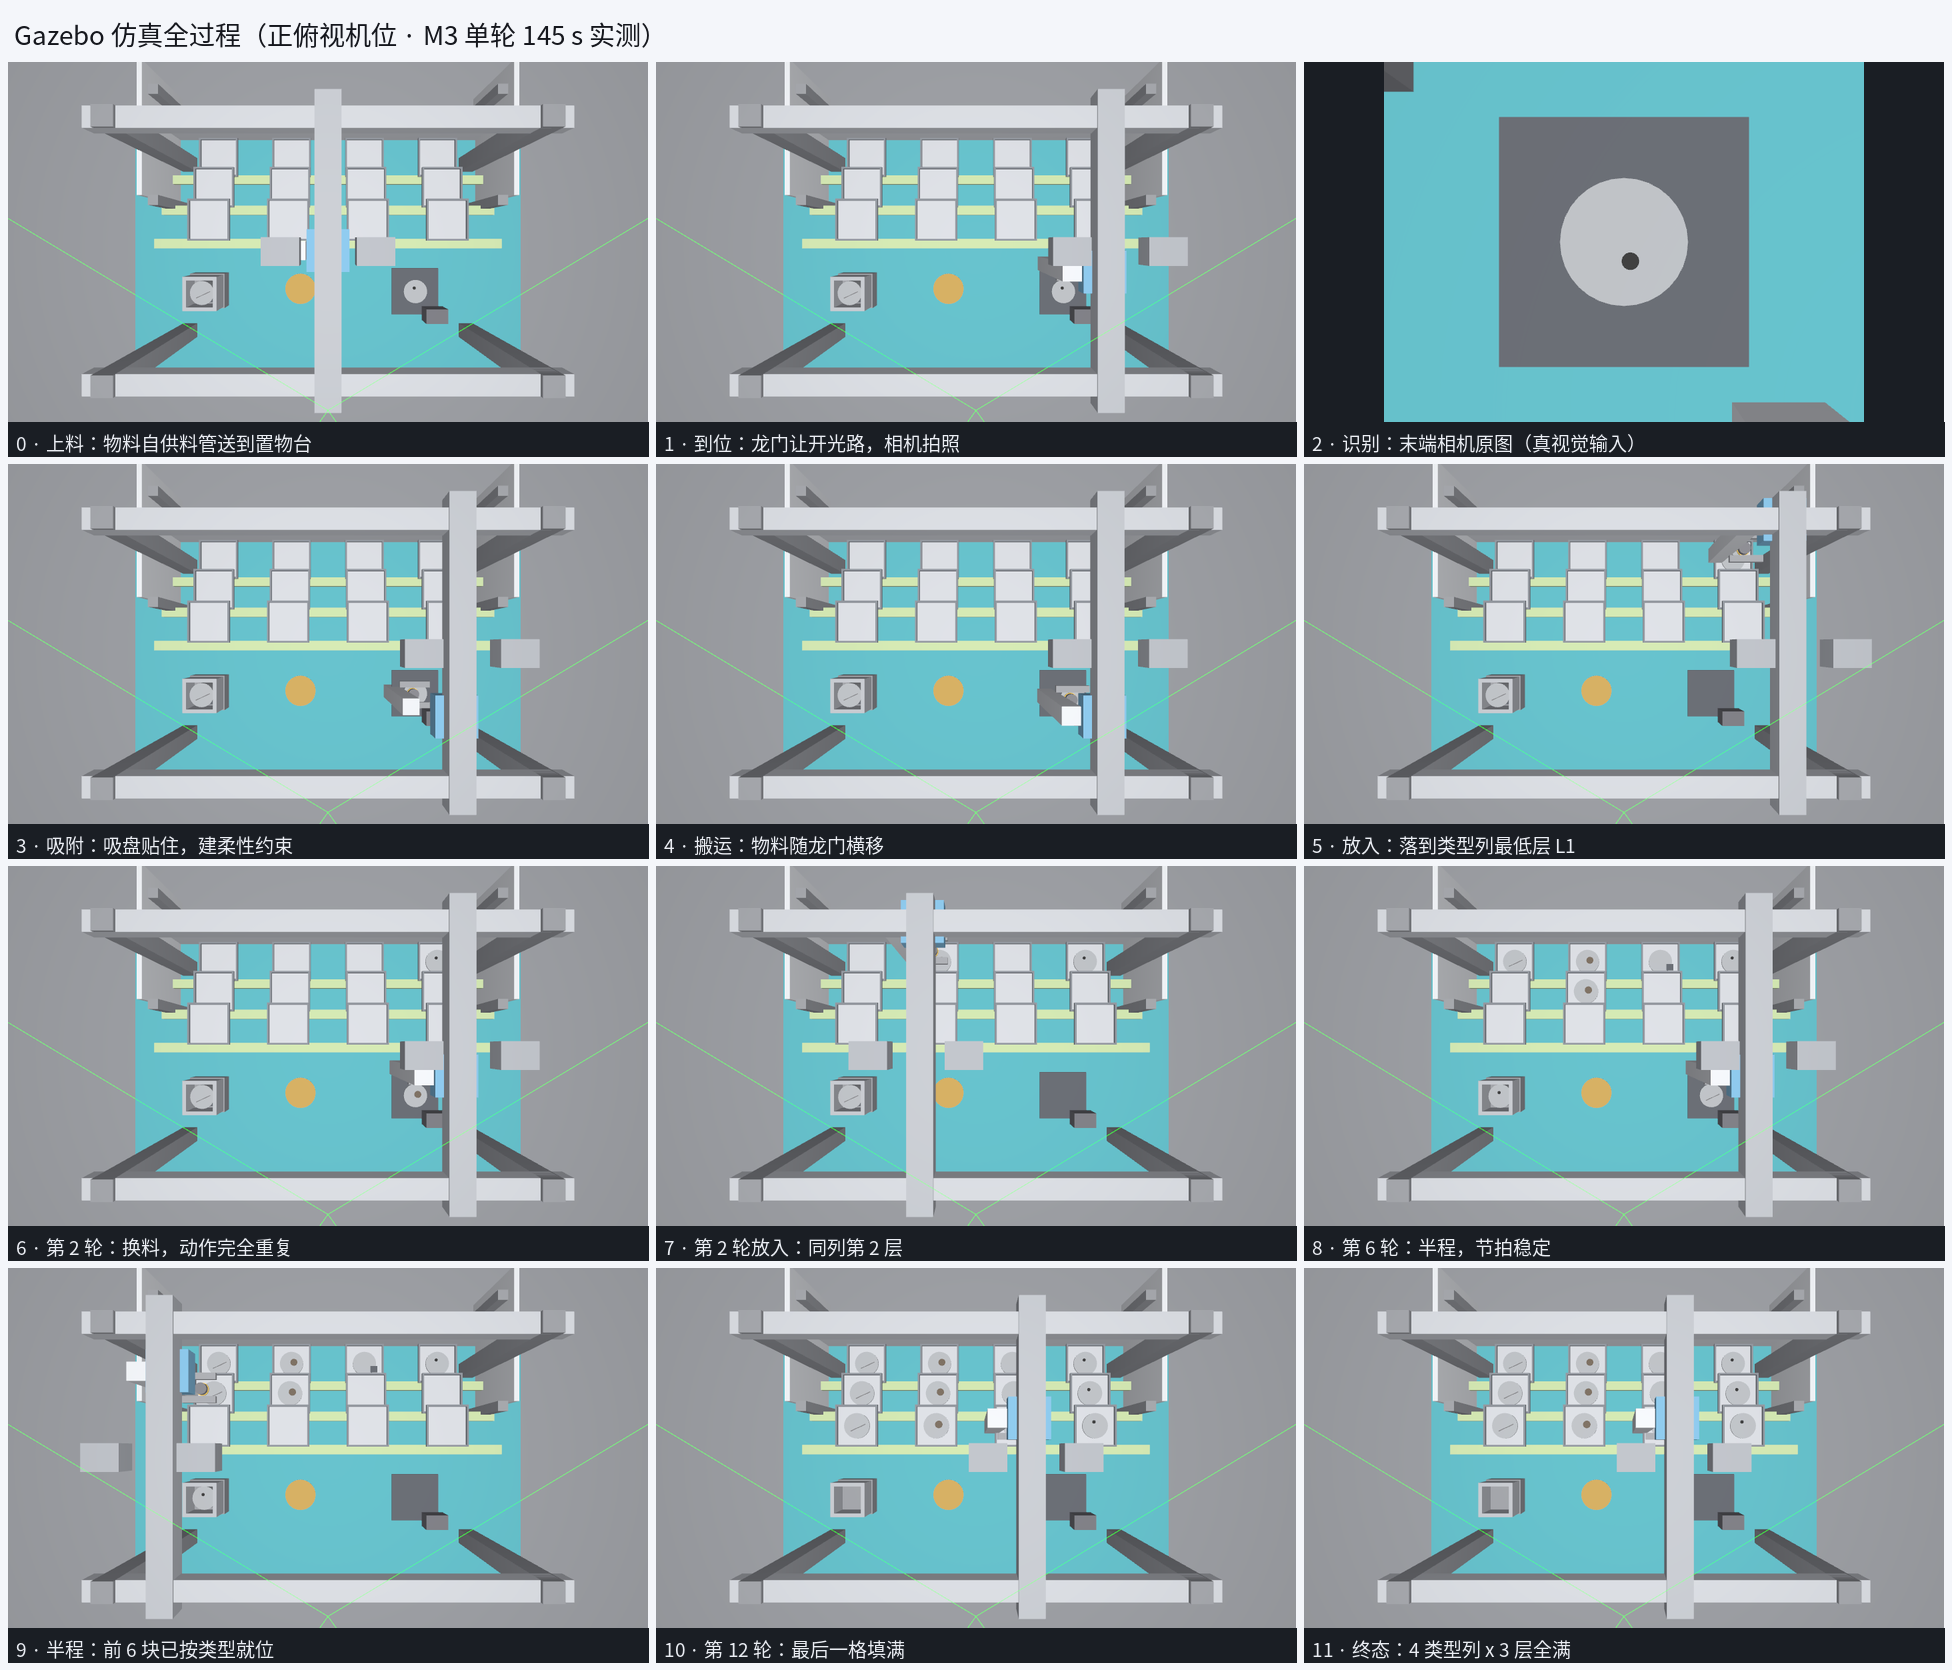
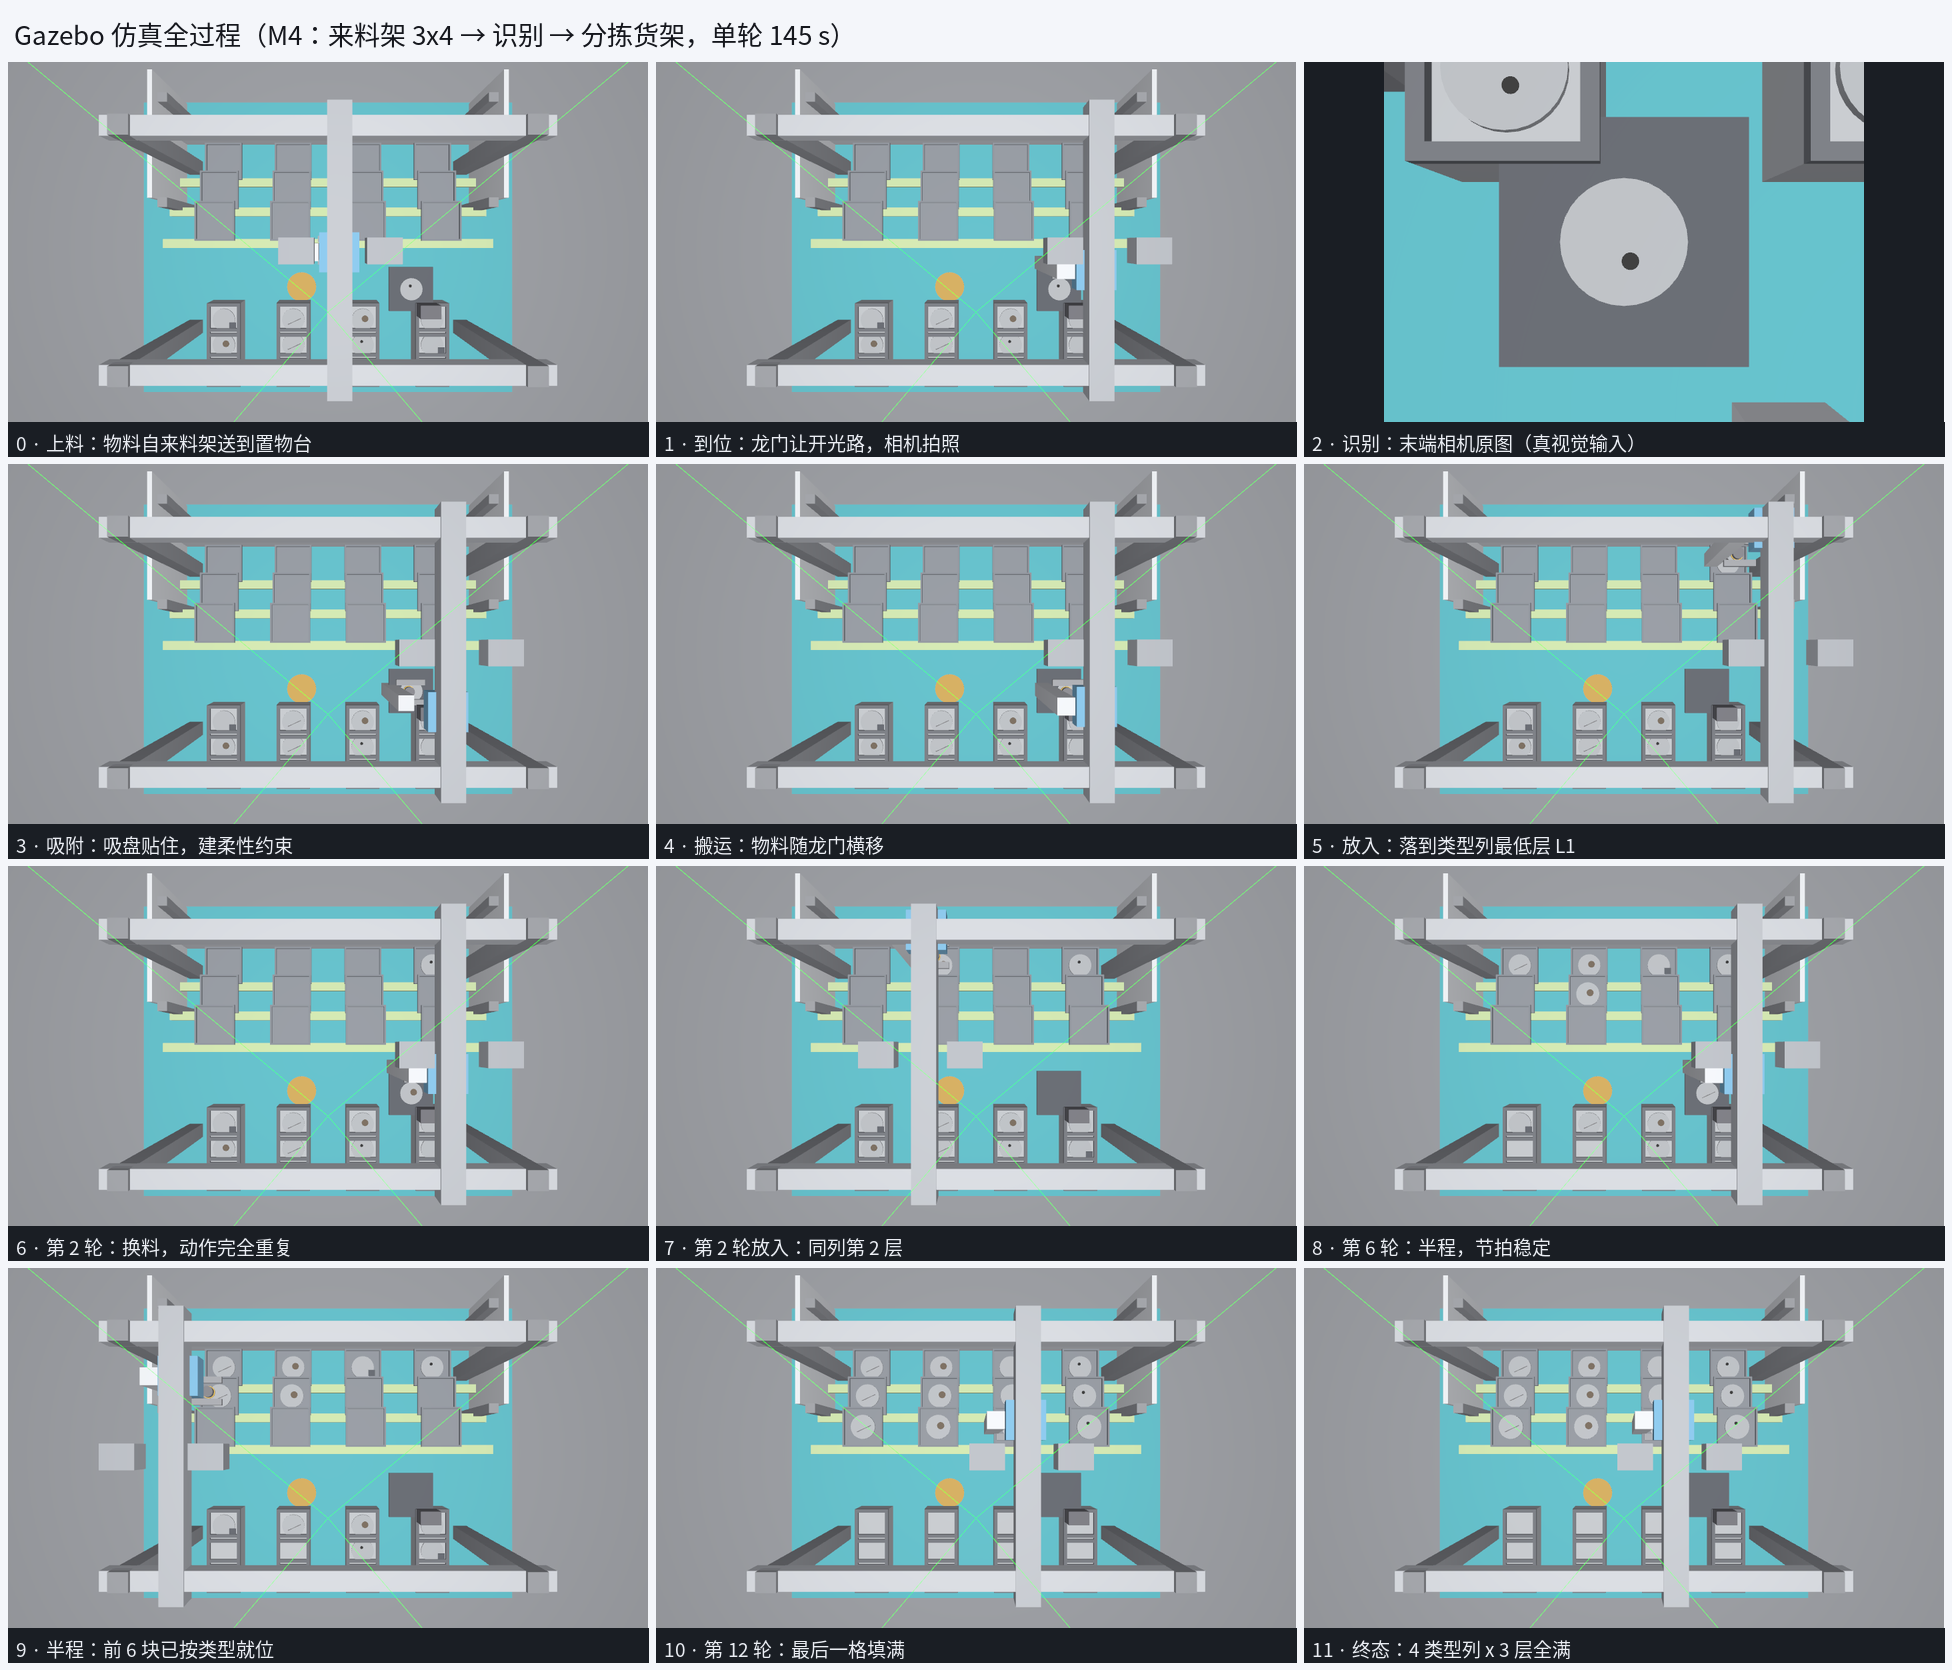
docs(guide): 手册与录制脚本同步 M4，分镜图按来料架版重采
- simulation_manual：版本头改 M4，流程改「来料架 3x4 -> 置物台识别 -> 分拣货架」，
  配置表 magazine 行换成 infeed；
- obs_recording_playbook：分镜旁白与画面检查项改来料架；
- capture_storyboard：默认机位改正俯视 1.62 m（能同时判读「来料架空了几格 /
  分拣架填了几格」），scene_pose 传 none 可回退世界机位；
  修一个参数坑：-p scene_pose:="" 会让 rcl 解析直接失败，空值用 none；
- storyboard.png：一整轮实测的 12 帧重采（来料架逐格变空、分拣架逐格填满）。

diff --git a/src/simulation/aic_gazebo_sim/scripts/capture_storyboard.py b/src/simulation/aic_gazebo_sim/scripts/capture_storyboard.py
@@ -51,10 +51,12 @@ class StoryboardCapture(Node):
         self.declare_parameter("start_delay_s", 4.0)  # 首帧到达后多久抓「初始态」
         self.declare_parameter("exit_after_final_s", 3.0)
         self.declare_parameter("auto_exit", True)
-        # 抓帧机位：正上方垂直向下，能同时看到供料管 / 置物台 / 货架 4x3 格口。
+        # 抓帧机位：正上方垂直向下，能同时看到来料架 3x4 / 置物台 / 分拣货架 4x3 格口。
         # 留空 = 不改机位（用世界里的 scene_cam 默认位姿）。
         # 注意：改机位走 ign service set_pose，必须等世界起来（首帧到达即证明已起来）。
-        self.declare_parameter("scene_pose", "0.0,0.02,1.55,0.0,1.5708,1.5708")
+        # 默认正俯视：同时看到来料架 3x4 与分拣货架 4x3，便于判断"哪格空了、哪格填了"。
+        # 传 "none" 则沿用世界里的 scene_cam 机位（斜俯视）。
+        self.declare_parameter("scene_pose", "0.0,0.02,1.62,0.0,1.5708,1.5708")
         self.declare_parameter("world", "aic_warehouse")
 
         self.out_dir = self.get_parameter("out_dir").value
@@ -116,11 +118,13 @@ class StoryboardCapture(Node):
         if key == "scene" and self.first_scene_at is None:
             now = time.time()
             self.first_scene_at = now
-            if str(self.get_parameter("scene_pose").value).strip():
+            # scene_pose 传 "none" 表示不改机位（注意：传空串会让 rcl 解析参数直接失败）
+            pose_raw = str(self.get_parameter("scene_pose").value).strip()
+            if pose_raw and pose_raw.lower() != "none":
                 self.pending.append((now + 0.5, "cam", "", "切到抓帧机位"))
             self.pending.append(
                 (now + float(self.get_parameter("start_delay_s").value), "scene", "r00_start",
-                 "初始态：12 块物料叠在供料管，货架空"))
+                 "初始态：12 块物料铺在来料架 3x4，分拣货架空"))
 
     # ---------- 事件 ----------
     def _on_task(self, msg):

diff --git a/docs/guides/gen_storyboard.py b/docs/guides/gen_storyboard.py
@@ -19,7 +19,7 @@ TITLE_H = 54
 
 # (帧 tag 关键字, 标注)。按时间/语义顺序排列，脚本按关键字在目录里找文件。
 SHOTS = [
-    ("r01_loading", "0 · 上料：物料自供料管送到置物台"),
+    ("r01_loading", "0 · 上料：物料自来料架送到置物台"),
     ("r01_arrived", "1 · 到位：龙门让开光路，相机拍照"),
     ("r01_cam",     "2 · 识别：末端相机原图（真视觉输入）"),
     ("r01_grip",    "3 · 吸附：吸盘贴住，建柔性约束"),
@@ -80,7 +80,7 @@ def main():
     height = TITLE_H + ROWS * (CELL_H + BAR_H) + (ROWS + 1) * PAD
     sheet = Image.new("RGB", (width, height), (244, 246, 250))
     draw = ImageDraw.Draw(sheet)
-    draw.text((PAD + 6, 14), "Gazebo 仿真全过程（正俯视机位 · M3 单轮 145 s 实测）",
+    draw.text((PAD + 6, 14), "Gazebo 仿真全过程（M4：来料架 3x4 → 识别 → 分拣货架，单轮 145 s）",
               font=title_font, fill=(20, 22, 28))
 
     missing = []

diff --git a/docs/guides/simulation_manual.md b/docs/guides/simulation_manual.md
@@ -1,6 +1,6 @@
 # AIC 仓储仿真使用手册（aic_gazebo_sim）
 
-> 版本：2026-10-20 · 适用于 **M3**（置物台上料 → 固定相机识别 → 吸盘取料 → 货架 4 列 × 3 层）
+> 版本：2026-10-21 · 适用于 **M4**（来料架 3×4 → 置物台识别 → 吸盘取料 → 分拣货架 4 列 × 3 层）
 > 定位：这是**操作手册**——装环境、构建、跑仿真、自验、配置、排障，按需查节。
 > 原理与全部 27 个坑的来龙去脉见 `simulation_guide.md`；接口契约细节见
 > `decision_control_interface.md` / `decision_vision_interface.md`。
@@ -10,13 +10,13 @@
 ## 1. 系统一句话
 
 对齐官方 VirtualNext 平台的节拍：**置物台上料 → 固定相机拍照识别 → 三轴龙门吸盘取料 → 放入货架对应类型列的最低空层（每格一块，不堆叠）**。
-一轮比赛 = 12 个上料轮次：每个轮次把 `material_NN` 从供料管传送到置物台、拍照判型，再按判型放进对应列。
+一轮比赛 = 12 个上料轮次：每个轮次把 `material_NN` 从**来料架（3 行 x 4 列）**它自己的格位传送到置物台、拍照判型，再按判型放进对应列。
 
 ```text
 决策 bt_runner (C++)   —— 12 个"位点" = 12 个上料轮次（slot_id 只是轮次编号）
    │ /control/material_task (aic_msgs/MaterialTask)
    ▼
-gantry_controller.py ── 上料：ign service set_pose 把 material_NN 从供料管传到置物台
+gantry_controller.py ── 上料：ign service set_pose 把 material_NN 从来料架格位传到置物台
    │                 ── 运动：/aic/joint/{x,y,z}/cmd_pos ─► ros_gz_bridge ─► Gazebo
    │                 ── 取/放：/sim/attach_NN / /sim/detach_NN（DetachableJoint 模拟吸盘）
    │  ▲ ── /world/aic_warehouse/model/aic_gantry/joint_state（闭环到位判定）
@@ -82,7 +82,7 @@ cd ~/AIC_cv-dev
 | 选项 | 默认 | 作用 |
 |---|---|---|
 | `--gui` | 关 | 带 Gazebo GUI 观察窗口（录像/演示用；无头跑也能出相机图，EGL 渲染） |
-| `--loop` | 单轮 | 常驻多轮（`once:=false` + `auto_restart:=true`，决策一轮结束自动重开），Ctrl-C 结束。**注意**：M3 的物料是「按库位号」从供料管取的，第二轮会把已放进货架的物料重新传送回置物台（等于把布局打乱重来）——真视觉结果不可作数。**只用于 gt 桩调决策 / 看板连拍演示，录像必须单轮。** 看板会在新一轮开始时自动清盘 |
+| `--loop` | 单轮 | 常驻多轮（`once:=false` + `auto_restart:=true`，决策一轮结束自动重开），Ctrl-C 结束。**注意**：M4 的物料是「按库位号」从来料架取的，第二轮会把已放进货架的物料重新传送回置物台（等于把布局打乱重来）——真视觉结果不可作数。**只用于 gt 桩调决策 / 看板连拍演示，录像必须单轮。** 看板会在新一轮开始时自动清盘 |
 | `--vision gt\|trad` | `gt` | 视觉后端：`gt`=真值桩（按布局表秒回类型）；`trad`=真视觉（读相机图识别） |
 | `--drop-rate 0.6` | 0.0 | 注入 60% 位点「识别失败」（视觉不回结果 → 决策记 TIMEOUT，巡视继续） |
 | `--invalid-rate 0.3` | 0.0 | 注入 30% 位点返回非法值 `"9"`（决策丢弃并计数） |
@@ -141,7 +141,7 @@ materials:
 | `gantry` | `xy_speed:0.30 z_speed:0.20 travel_z:0.02 pad_z0:0.239` + 闭环阈值 | 运动剖面、行进高度、吸盘基准与到位判据 |
 | `camera` | `mount:[x y z r p y]` `width:640 height:480` | **固定式**末端相机（装在置物台正上方；M3 起不再挂在龙门上） |
 | `staging` | `x:0.30 y:-0.15 z:0.10 goto_offset_y:0.10` | 置物台（取料源）+ GOTO 停靠偏移（让吸盘退出光路） |
-| `magazine` | `x:-0.42 floor_z:0.085 tube_h:0.09` | 供料管：12 块物料开机全部叠在这里，按轮次传送 |
+| `infeed` | `cols:4 rows:3 pitch_x:0.25 pitch_y:0.09 y0:-0.44 z:0.10` | 来料架：12 块物料开局按格铺在这里（row-major），按轮次传送到置物台 |
 | `recycle` | `x:-0.10 y:-0.15 z:0.02` | 回收位：识别失败没被取走的物料送到这，保证台面同时只有一块 |
 | `scene_cam` | `pose / fov / width:960 height:540 / update_rate:15` | 自由摄像机（看板全景主画面 `/scene/image`） |
 
@@ -204,7 +204,7 @@ ros2 run aic_gazebo_sim capture_storyboard.py \
 ```
 
 产物：`<out_dir>/NN_<轮次>_<阶段>.png` + `storyboard.txt`（时间索引）。
-机位默认正俯视（`0,0.02,1.55,0,1.5708,1.5708`，能看到供料管 / 置物台 / 货架全貌），
+机位默认正俯视（`0,0.02,1.55,0,1.5708,1.5708`，能看全来料架 / 置物台 / 分拣货架），
 用 `-p scene_pose:="x,y,z,roll,pitch,yaw"` 可换机位。
 
 离线工具：

diff --git a/docs/guides/obs_recording_playbook.md b/docs/guides/obs_recording_playbook.md
@@ -30,7 +30,7 @@ ros2 launch aic_dashboard dashboard.launch.py vision_backend:=trad
 
 | 检查项 | 合格表现 |
 |---|---|
-| 全景画面 | 能看到置物台（蓝色台面 + 黄色物料）、货架 4 列 × 3 层、供料管 |
+| 全景画面 | 能看到置物台（深色台面 + 圆形物料）、来料架 3×4、分拣货架 4 列 × 3 层 |
 | 末端相机 | 有画面（不是黑块/灰块） |
 | 计分板 | 12 格为灰色「待巡视」，比分 0 / 0 |
 
@@ -92,7 +92,7 @@ ros2 launch aic_dashboard dashboard.launch.py vision_backend:=trad gui:=true
 
 ![场景布局](../competition/AIC视觉分拣技术文档/assets/scene_map.png)
 
-四个动作，12 轮重复：① 供料管 → 置物台（上料）→ ② 置物台正上方固定相机拍照 → ③ 吸盘下探吸取
+四个动作，12 轮重复：① 来料架 → 置物台（上料）→ ② 置物台正上方固定相机拍照 → ③ 吸盘下探吸取
 → ④ 放进对应类型列的最低空层（每格一块，不叠放）。货架第 1/2/3 层高度分别是 0.10 / 0.16 / 0.22 m。
 
 ---
@@ -104,8 +104,8 @@ ros2 launch aic_dashboard dashboard.launch.py vision_backend:=trad gui:=true
 
 | 时间码 | 画面（看板上该看到什么） | 动作/事件 | 旁白（可直接念） |
 |---|---|---|---|
-| 0:00–0:08 | 全景：供料管里叠着 12 块物料，货架 12 格全空 | 仿真启动、控制握手 | 「这是 ROS 2 + Gazebo 搭建的仓储分拣仿真，12 块带缺陷的圆形铁片从供料管逐块上料。」 |
-| 0:08–0:14 | 一块物料从供料管「飞」到蓝色置物台 | `set_pose` 上料 | 「每轮先把一块物料传送到置物台，台面同一时刻只有一块，避免遮挡。」 |
+| 0:00–0:08 | 全景：来料架上铺着 12 块物料（3 行 × 4 列），分拣货架 12 格全空 | 仿真启动、控制握手 | 「这是 ROS 2 + Gazebo 搭建的仓储分拣仿真，12 块带缺陷的圆形铁片铺在来料架上，逐块送到置物台识别。」 |
+| 0:08–0:14 | 一块物料从来料架「飞」到置物台 | `set_pose` 上料 | 「每轮先把一块物料传送到置物台，台面同一时刻只有一块，避免遮挡。」 |
 | 0:14–0:18 | 龙门退到偏移位，末端相机画面出现铁片 | 固定相机拍照 | 「龙门让开光路，置物台正上方的固定相机拍照，视觉开始判型。」 |
 | 0:18–0:22 | 末端相机画面 + 判分格变琥珀色 | 视觉输出 1–4 类 | 「四类缺陷：划痕、污渍、缺角、孔洞，传统视觉在 0.3 秒内给出类型。」 |
 | 0:22–0:30 | 吸盘下探贴住铁片，物料随龙门抬起、横移 | 吸附 + 搬运 | 「吸盘下探吸附，靠 DetachableJoint 模拟真空吸附，物料跟着龙门走。」 |
